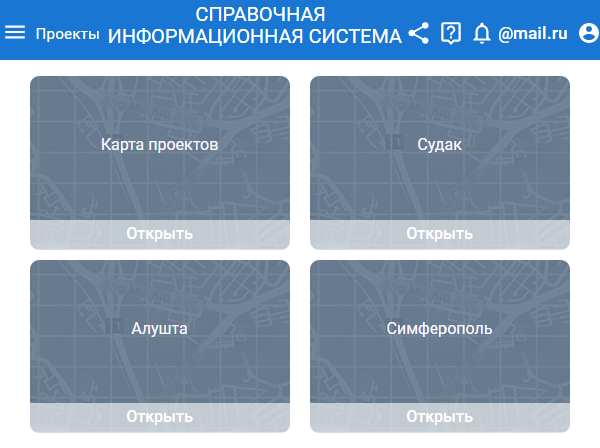
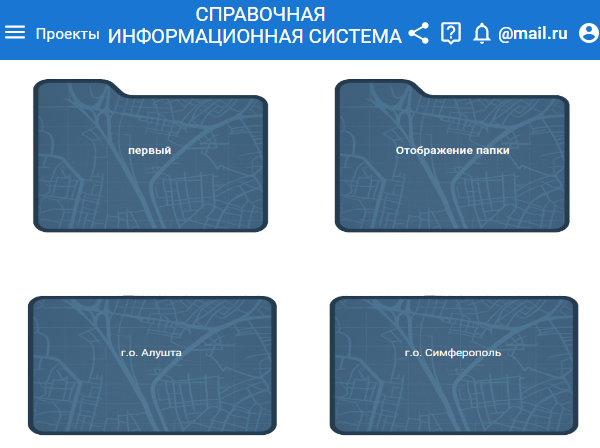
Объединенный запрос на вытягивание 882: chore(ui:help) update help for folders in projects
Связанные рабочие элементы: #3375

diff --git a/portal-ui/src/assets/help/3projects/3select/03select.html b/portal-ui/src/assets/help/3projects/3select/03select.html
@@ -1,21 +1,20 @@
 <p>
-  <b>Управление проектами</b>
+  <b>Проекты</b>
 </p>
 
 <p>
-  <i>Выбор проекта</i>
+  <i>Выбор папки/проекта</i>
 </p>
 
-<p>После авторизации в систему, Вам потребуется выбрать проект на странице <em>«Проекты»</em>.</p>
+<p>После авторизации в систему, Вам потребуется выбрать папку/проект на странице <em>«Проекты»</em>.</p>
 
-<p>Проект – карта со слоями, на которых содержатся визуализированные объекты с атрибутивной информацией.</p>
+<p>Проект – это электронные карты, на которых содержатся визуализированные объекты с атрибутивной информацией.</p>
 
-<p>Для выбора проекта, требуется:</p>
+<p>Для выбора папки/проекта, требуется:</p>
 
 <ol>
   <li>
-    В открывшемся главном окне со всеми имеющимися проектами в системе, необходимо выбрать нужный. Левой кнопкой мыши
-    (ЛКМ) кликнуть <i>«Открыть»</i> внизу карточки проекта.
+    В открывшемся главном окне со всеми имеющимися папками/проектами в системе, необходимо выбрать нужный. Левой кнопкой мыши кликнуть на папку/проект <i>1</i>.
   </li>
 </ol>
 <center><img src="03select_1.png" alt="" /></center>

diff --git a/portal-ui/src/assets/help/5dataManagement/32createProjects/32createProjects.html b/portal-ui/src/assets/help/5dataManagement/32createProjects/32createProjects.html
@@ -1,0 +1,18 @@
+<p><b>Создание проекта</b></p>
+<p>Проект представляет собой рабочее пространство для публикации данных, хранящихся в библиотеках или наборах данных.</p>
+<p>Для создания проекта выполните следующие шаги:</p>
+<ol>
+  <li>Откройте раздел <b>Управление данными</b>.</li>
+  <li>Во вкладке <b>Проекты</b> нажмите <b>Создать проект</b> (1).</li>
+  <center><img src="32createProjects_1.png" alt="" /></center>
+  <li>В открывшемся окне введите <b>Название</b> проекта (обязательное поле).</li>
+  <li>При необходимости введите <b>Описание</b>.</li>
+  <li>В поле <b>Bbox</b> введите координаты области проекта в EPSG:3857. Формат: <code>[Xmin,Ymin,Xmax,Ymax]</code>.</li>
+  <ul>
+    <li>Определите границы области в QGIS: выделите масштабом интересующую зону, скопируйте координаты углов в метрах (EPSG:3857).</li>
+    <li>Пример: <code>[4336548,5630738,4337222,5632892]</code></li>
+  </ul>
+  <center><img src="32createProjects_2.png" alt="" /></center>
+  <li>Нажмите <b>Создать</b> (2), чтобы сохранить проект.</li>
+</ol>
+<p>Созданный проект появится в списке в выбранной папке. Отображение карты при открытии будет осуществляться по координатам, указанным в bbox.</p>

diff --git a/portal-ui/src/assets/help/5dataManagement/31propertiesProjects/31propertiesProjects.html b/portal-ui/src/assets/help/5dataManagement/31propertiesProjects/31propertiesProjects.html
@@ -1,0 +1,14 @@
+<p><b>Проекты</b></p>
+<p>Проекты — это электронные карты, на которых можно отображать векторные и растровые геодокументы в привязке к территориальной принадлежности на картографических подосновах.</p>
+<p>Данный раздел предназначен для создания, редактирования, структурирования и управления доступом к проектам.</p>
+<p>Функционал <b>Карточки проекта:</b></p>
+<ol>
+    <li><b>Разрешения —</b> предоставление прав на проект.</li>
+    <li><b>Редактирование проекта —</b> изменение данных проекта.</li>
+    <li><b>Переместить —</b> перенос проекта в папку.</li>
+    <li><b>Копировать ссылку —</b> копирование ссылки на проект.</li>
+    <li><b>Удалить — </b>удаление проекта.</li>
+  </ol>
+  <center><img src="31propertiesProjects_1.png" alt="" /></center>
+  <p>Для перехода в проект нажмите <b>6</b> из вкладки проектов.</p>
+  <center><img src="31propertiesProjects_2.png" alt="" /></center>

diff --git a/portal-ui/src/assets/help/5dataManagement/29foldersProjects/29foldersProjects.html b/portal-ui/src/assets/help/5dataManagement/29foldersProjects/29foldersProjects.html
@@ -1,4 +1,4 @@
-<p><b>Папки проектов</b></p>
+<p><b>Создание папки проектов</b></p>
 <p>Папки предназначены для группировки проектов, управления вложенностью и правами доступа.</p>
 
 <p>Для создания новой папки выполните следующие шаги:</p>
@@ -11,4 +11,4 @@
   <center><img src="29foldersProjects_2.png" alt="" /></center>
 </ol>
 <p>Созданная папка появится в начале списка.</p>
-<p>Создание и перемещение проектов в папку доступно при наличии прав владельца или редактора.</p>
+<p>Создание и перемещение проектов в папку доступны при наличии прав владельца или редактора соответствующей папки и проекта.</p>

diff --git a/portal-ui/src/assets/help/5dataManagement/30displacementFolders/30displacementFolders.html b/portal-ui/src/assets/help/5dataManagement/30displacementFolders/30displacementFolders.html
@@ -1,0 +1,13 @@
+<p><b>Перемещение проекта/папки в папку</b></p>
+
+<p>Для перемещения проекта/папки в папку выполните следующие шаги:</p>
+<ol>
+  <li>Выберите проект/папку из списка</li>
+  <li>Нажмите <b>Переместить</b> (1).</li>
+  <center><img src="30displacementFolders_1.png" alt="" /></center>
+  <li>Выберите папку из списка для перемещения.</li>
+  <li>Нажмите <b>Выбрать</b> (2).</li>  
+  <center><img src="30displacementFolders_2.png" alt="" /></center>
+</ol>
+<p>Проект/папка будет перемещён в выбранное расположение.</p>
+<p>Кнопка перемещения будет недоступной, если у пользователя права на проект/папку только на чтение.</p>

diff --git a/portal-ui/src/assets/help/3projects/0projects/00projects.html b/portal-ui/src/assets/help/3projects/0projects/00projects.html
@@ -1,16 +1,10 @@
 <p>
   <b>Управление проектами</b>
 </p>
-
 <p>
   <i>Страница с проектами</i>
 </p>
-
 <p>Список всех существующих проектов отображается на странице управления проектами.</p>
-
-<p>Страница «Управление проектами» позволяет <i>создать, открыть или удалить</i> проект.</p>
-
-<p>Для перехода на страницу «Проекты» нажмите соответствующую кнопку <b>(1)</b>.</p>
-
 <center><img src="00projects_2.png" alt="" /></center>
+<p>Для перехода на страницу «Проекты» нажмите соответствующую кнопку <b>(1)</b>.</p>
 <center><img src="00projects_1.png" alt="" /></center>
